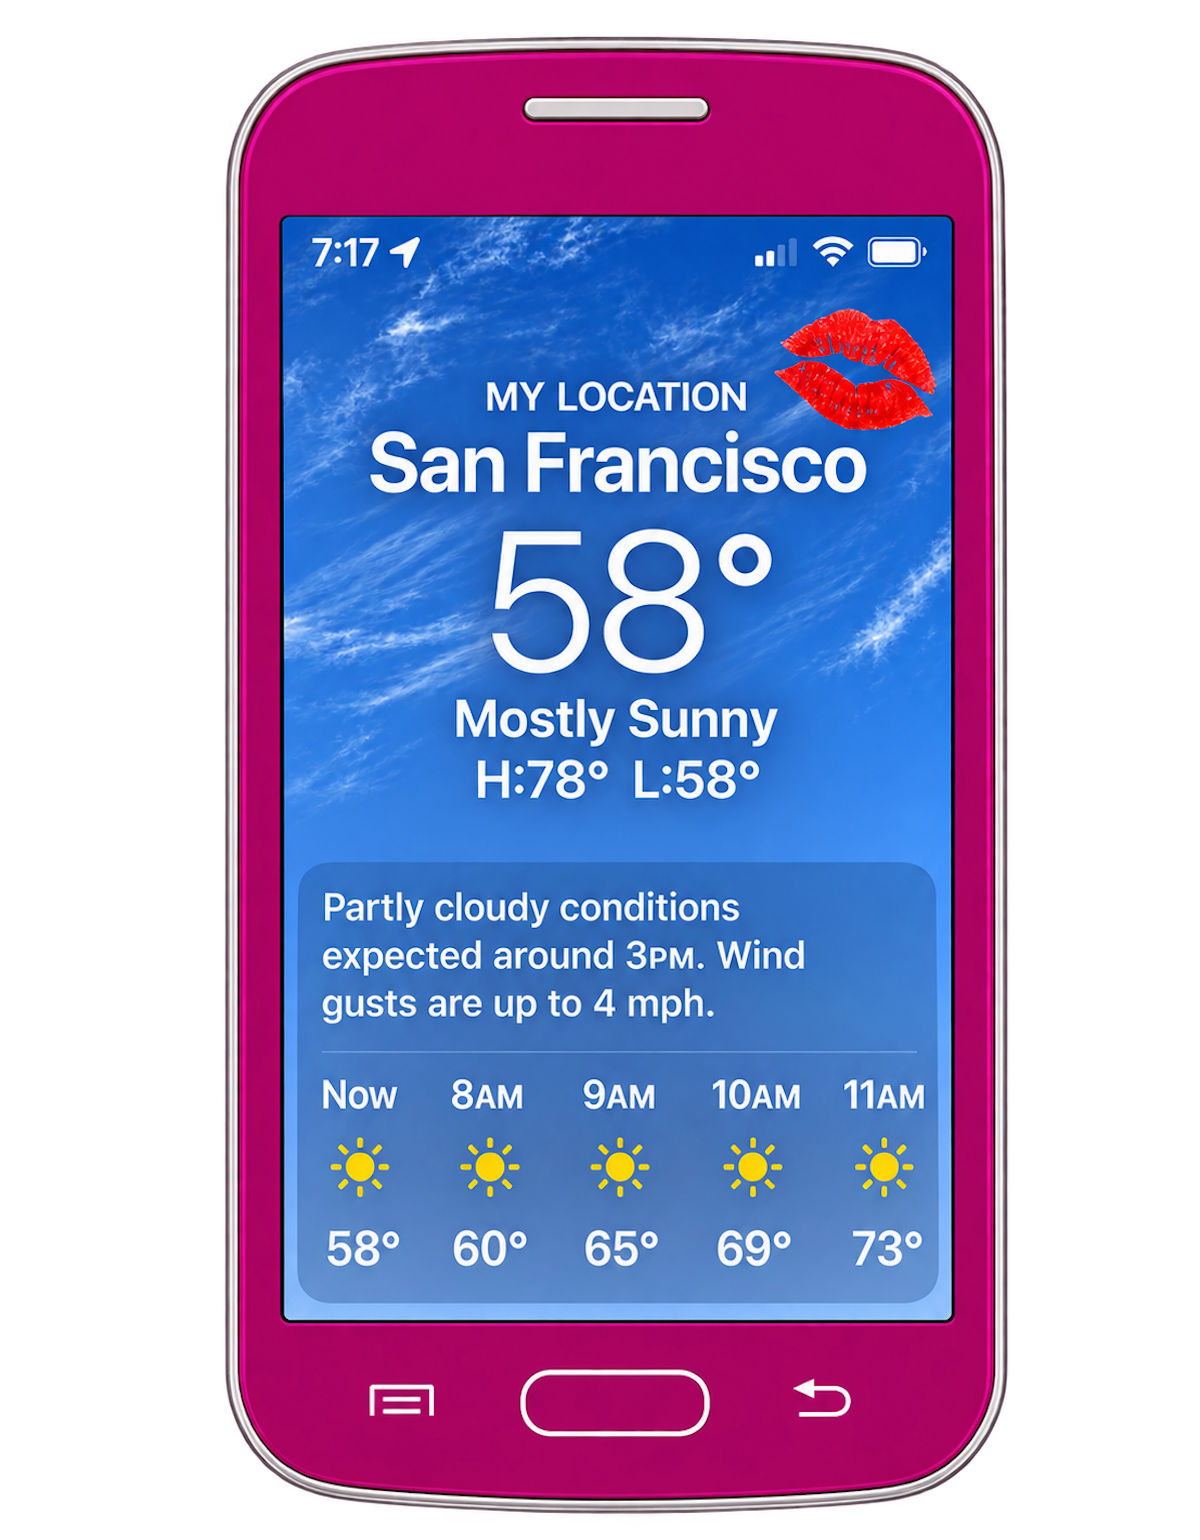
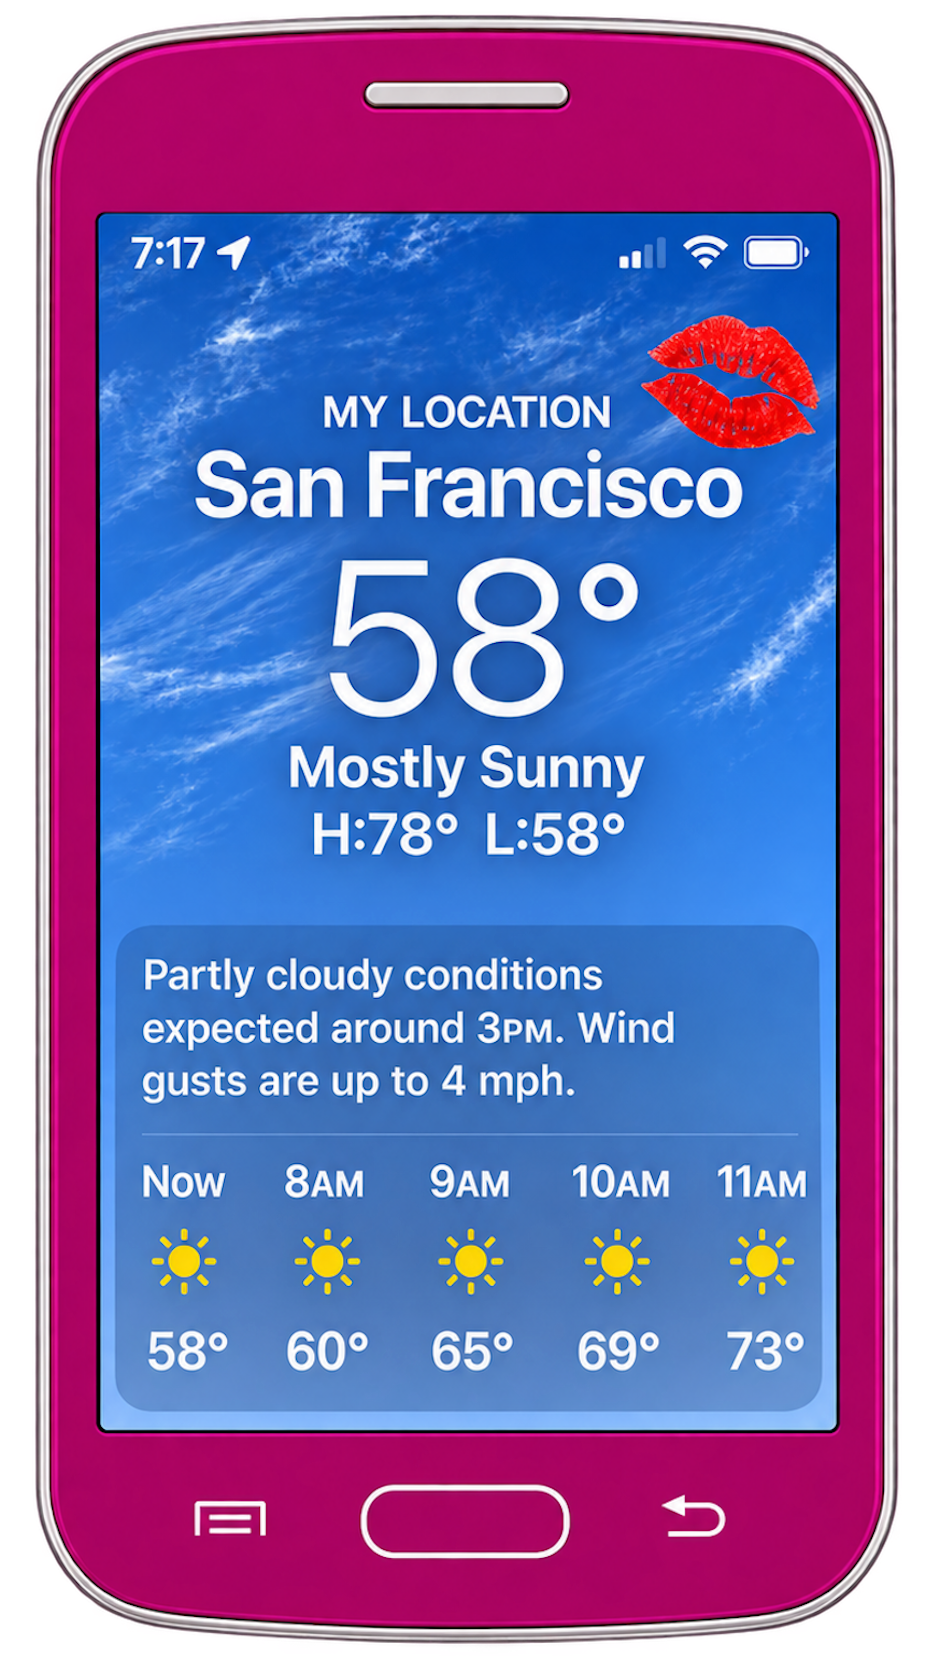
done

diff --git a/style1.css b/style1.css
@@ -20,8 +20,6 @@ img {
   max-width: 100%;
 }
 
-/* header */
-
 .gg-header {
   position: sticky;
   top: 0;
@@ -58,8 +56,6 @@ img {
   height: auto;
   display: block;
 }
-
-/* timeline */
 
 .timeline {
   position: relative;
@@ -126,13 +122,10 @@ img {
   left: -10px;
 }
 
-/* author card */
-
 .author-card {
   position: relative;
   z-index: 20;
 
-  /* sits on the right side of the line, next to e-blast 01 */
   float: right;
   width: calc(50% - 50px);
 
@@ -151,7 +144,6 @@ img {
 }
 
 .author-card img {
-  /* natural square shape, no cropping */
   width: 100%;
   max-width: 380px;
   height: auto;
@@ -170,8 +162,6 @@ img {
   font-weight: 600;
   margin-bottom: 0;
 }
-
-/* posts */
 
 .post {
   width: 100%;
@@ -240,8 +230,6 @@ img {
   border-right: none;
 }
 
-/* footer */
-
 .ending {
   padding: 80px 20px;
 
@@ -273,8 +261,6 @@ img {
   width: 45px;
   height: auto;
 }
-
-/* phones and small screens: one column, line on the left */
 
 @media (max-width: 800px) {
   .main {
